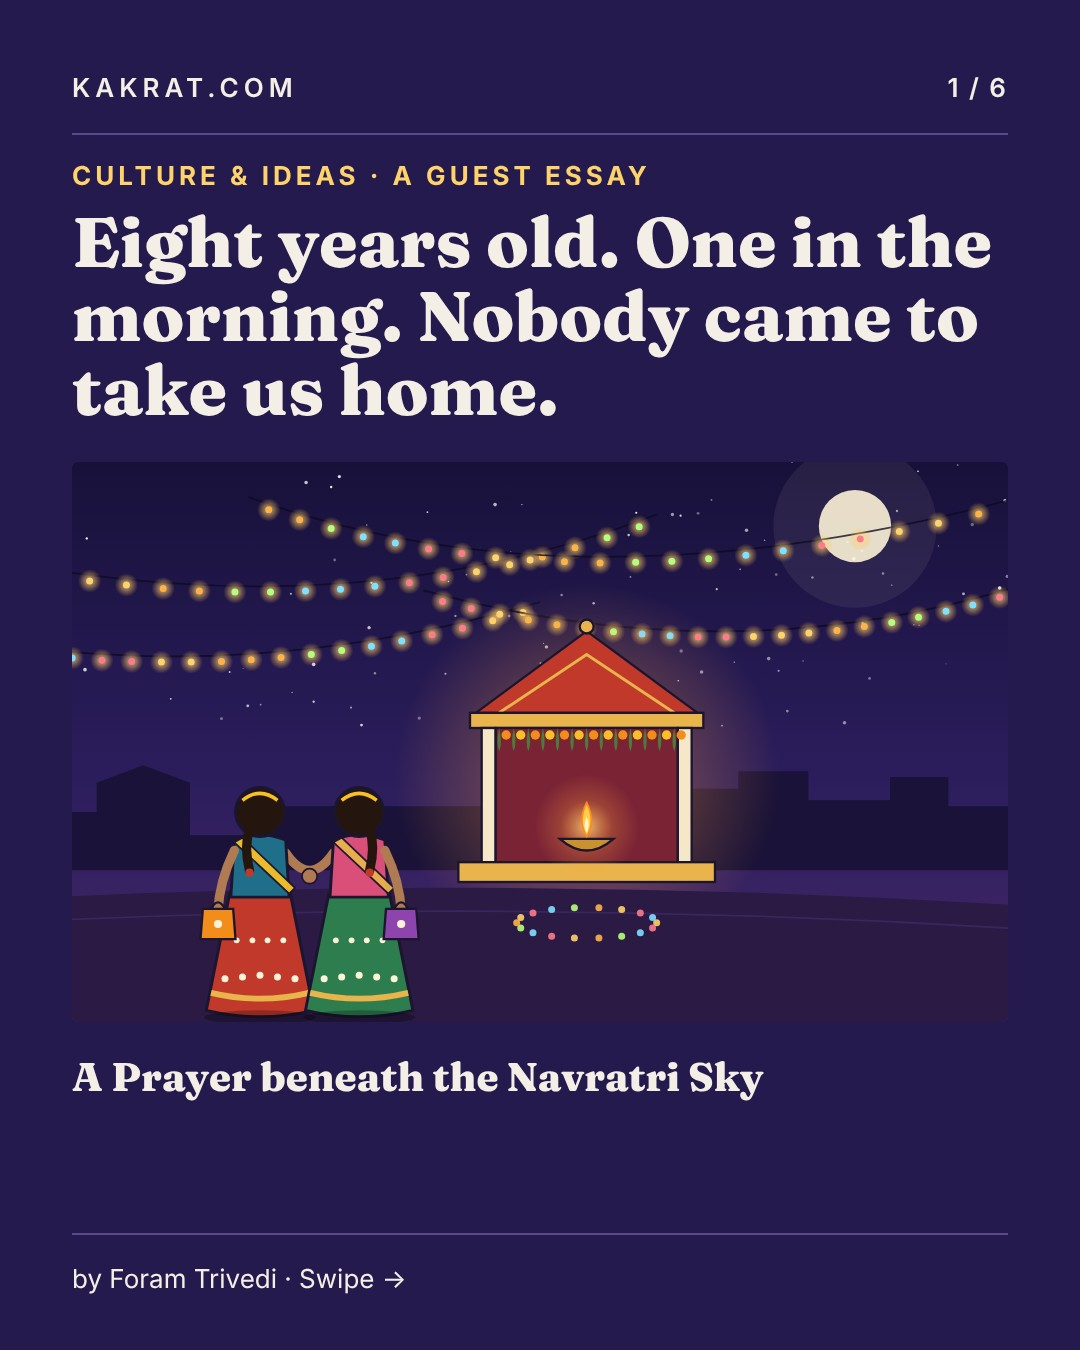
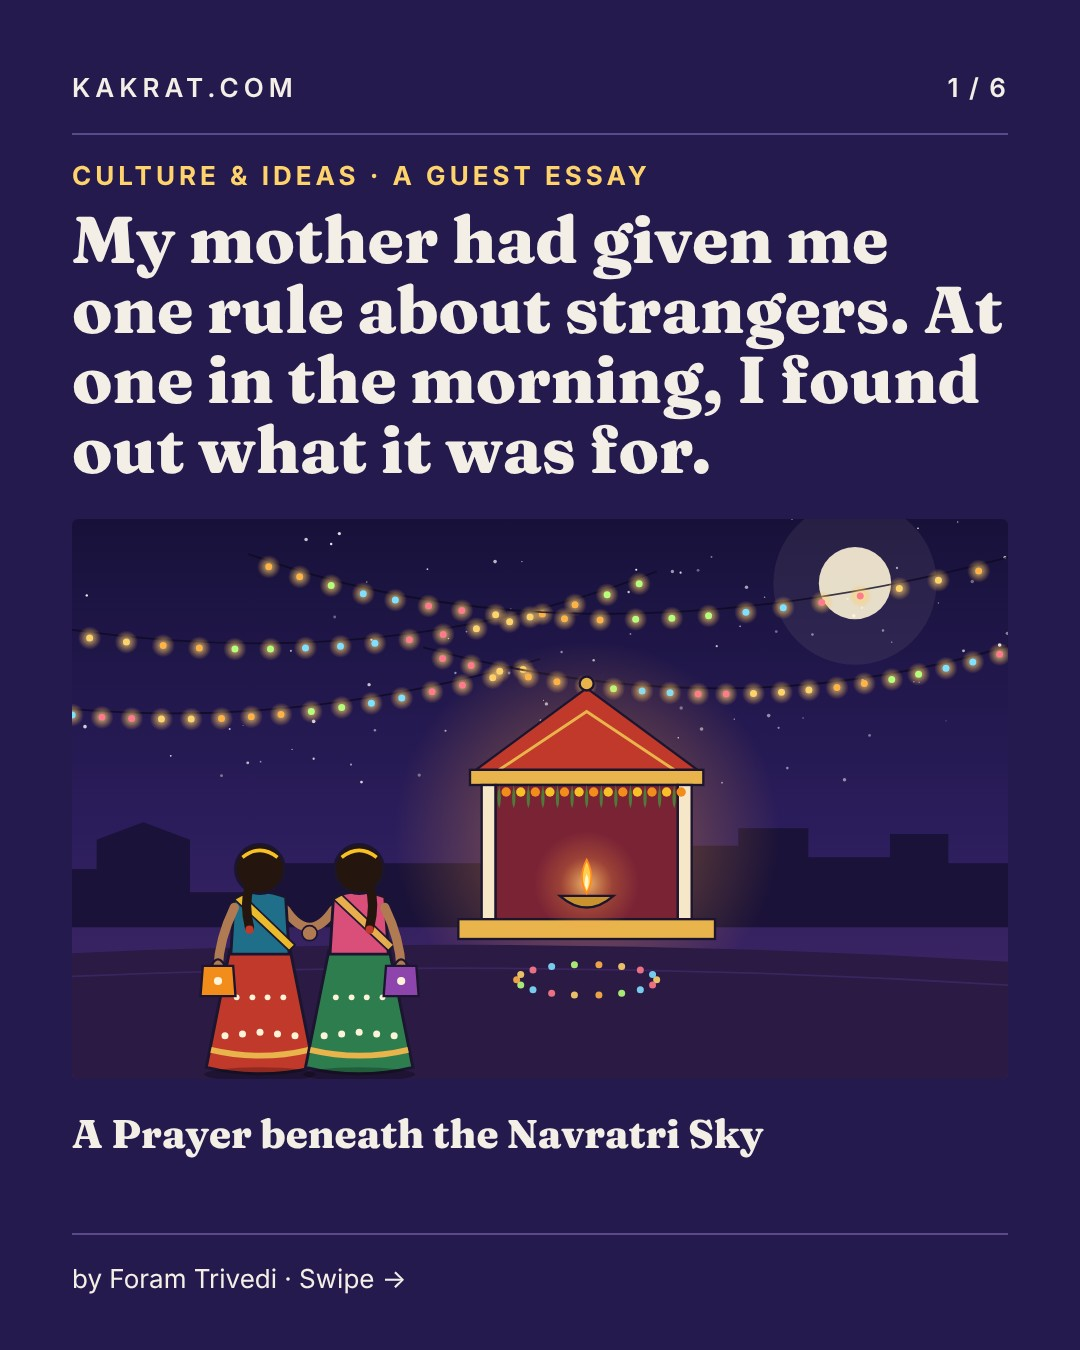
Navratri essay: rewritten text, new standfirst, three illustrations, author headshot
Also shows author photos in the author box and author page when set.

Claude-Session: https://claude.ai/code/session_01M3G9KBUCBKG647iTqF4DtL

Changed region(s): [[0.0611, 0.1556, 0.9472, 0.8711], [0.0611, 0.4044, 0.1222, 0.4356]]

diff --git a/src/components/article/AuthorBox.tsx b/src/components/article/AuthorBox.tsx
@@ -20,11 +20,24 @@ export function AuthorBox({ authors }: { authors: Author[] }) {
         return (
           <div key={a.id} className="rounded-sm border border-line p-6">
             <p className="text-xs uppercase tracking-wider text-ink-muted">About the author</p>
-            <p className="mt-2 font-display text-xl text-ink">
-              <Link href={`/authors/${a.id}`} className="hover:text-accent">
-                {a.name}
-              </Link>
-            </p>
+            <div className="mt-3 flex items-center gap-4">
+              {a.avatar && (
+                // eslint-disable-next-line @next/next/no-img-element -- static export; small pre-sized headshot
+                <img
+                  src={a.avatar}
+                  alt={`Photo of ${a.name}`}
+                  width={64}
+                  height={64}
+                  loading="lazy"
+                  className="h-16 w-16 shrink-0 rounded-full object-cover"
+                />
+              )}
+              <p className="font-display text-xl text-ink">
+                <Link href={`/authors/${a.id}`} className="hover:text-accent">
+                  {a.name}
+                </Link>
+              </p>
+            </div>
             <p className="mt-2 text-sm leading-relaxed text-ink-muted">{a.bio}</p>
             <ul className="mt-3 flex flex-wrap gap-x-4 gap-y-1 text-sm">
               <li>

diff --git a/src/app/authors/[author]/page.tsx b/src/app/authors/[author]/page.tsx
@@ -47,6 +47,16 @@ export default async function AuthorPage({
           { name: author.name, url: `${SITE_URL}/authors/${author.id}` },
         ])}
       />
+      {author.avatar && (
+        // eslint-disable-next-line @next/next/no-img-element -- static export; small pre-sized headshot
+        <img
+          src={author.avatar}
+          alt={`Photo of ${author.name}`}
+          width={96}
+          height={96}
+          className="mb-5 h-24 w-24 rounded-full object-cover"
+        />
+      )}
       <h1 className="font-display text-4xl text-ink">{author.name}</h1>
       {author.title && <p className="mt-1 text-ink-muted">{author.title}</p>}
       <p className="mt-4 max-w-xl text-ink-muted">{author.bio}</p>

diff --git a/src/types/content.ts b/src/types/content.ts
@@ -52,7 +52,8 @@ export const authorSchema = z.object({
   name: z.string(),
   title: z.string().optional(), // e.g. "Founder, Kakrat" / "Contributing Writer"
   bio: z.string(),
-  avatar: z.string().optional(),
+  /** Square headshot under public/, e.g. "/images/authors/<id>.jpg" (320×320). */
+  avatar: z.string().regex(/^\/images\/authors\/[a-z0-9-]+\.(jpg|png|webp)$/).optional(),
   /** Canonical profile links for Person JSON-LD `sameAs`. */
   sameAs: z.array(z.url()).default([]),
   website: z.url().optional(),

diff --git a/src/lib/seo/json-ld.ts b/src/lib/seo/json-ld.ts
@@ -43,6 +43,7 @@ export function personJsonLd(author: Author) {
     description: author.bio,
     url: `${SITE_URL}/authors/${author.id}`,
     ...(author.title ? { jobTitle: author.title } : {}),
+    ...(author.avatar ? { image: `${SITE_URL}${author.avatar}` } : {}),
     ...(author.sameAs.length || author.website
       ? { sameAs: [...(author.website ? [author.website] : []), ...author.sameAs] }
       : {}),

diff --git a/docs/social/2026-12-navratri.md b/docs/social/2026-12-navratri.md
@@ -7,7 +7,7 @@ author: Foram Trivedi (tag her: LinkedIn https://www.linkedin.com/in/foram-trive
 ## Instagram
 time: 19:30
 caption:
-Eight years old. One in the morning. Nobody came to take us home.
+My mother had given me one rule about strangers. At one o'clock in the morning, on the first night of Navratri, I found out what it was for.
 
 In her first essay for Kakrat, Foram Trivedi remembers the first night of Navratri in Jamnagar, when two little girls were left behind after the garba, said no to a stranger, and held hands under the festival lights until help came.
 
@@ -20,9 +20,9 @@ Read it at kakrat.com (link in bio)
 ## X
 time: 20:00
 text:
-Eight years old. One in the morning. Nobody came to take us home.
+My mother had given me one rule about strangers. At one o'clock in the morning, on the first night of Navratri, I found out what it was for.
 
-For Kakrat, Foram Trivedi remembers a Navratri night in Jamnagar, and what it taught a neighbourhood about counting its children. https://kakrat.com/articles/a-prayer-beneath-the-navratri-sky
+Foram Trivedi on a Navratri night in Jamnagar, and what it taught a neighbourhood about counting its children. https://kakrat.com/articles/a-prayer-beneath-the-navratri-sky
 
 ## LinkedIn
 time: 09:30 next day
@@ -36,13 +36,13 @@ It's a gentle story with a clear lesson for anyone who runs events, schools or t
 https://kakrat.com/articles/a-prayer-beneath-the-navratri-sky
 
 ## Alt text
-01: Title slide on deep blue: "Eight years old. One in the morning. Nobody came to take us home." Below, an illustration of two little girls seen from behind in bright chaniya cholis, holding hands and gift bags, looking at a glowing mandap with a lit diya under strings of festival lights. Title: A Prayer beneath the Navratri Sky, by Foram Trivedi.
-02: "The air smelled of raatrani and rain. The drums of the aarti carried all the way home." Two little girls danced the sheri garba all night. Quote: "At eight, staying up for garba felt like an adventure."
-03: "One by one, the other girls left." The organisers went home, telling the caretaker to send the last two off. Quote: "We were eight years old, it was one in the morning, and we were alone with a man we didn't know."
-04: On deep blue: "Never go anywhere with a stranger." The caretaker offered to take them home; they said no. "We held hands, looked up at the Goddess in the mandap, and prayed without a sound."
-05: "Two neighbours spotted them and led them to the street corner." Their mothers were still dancing and had forgotten to pick them up. For us: relief. For them: a lifelong regret.
+01: Title slide on deep blue: "My mother had given me one rule about strangers. At one in the morning, I found out what it was for." Below, an illustration of two little girls seen from behind in bright chaniya cholis, holding hands and gift bags, looking at a glowing mandap with a lit diya under strings of festival lights. Title: A Prayer beneath the Navratri Sky, by Foram Trivedi.
+02: Illustration of girls in chaniya cholis dancing garba in a circle around a glowing clay garbo under festival lights. Text: "The raatrani was in bloom, and the sky had agreed to be different for nine nights." Quote: "At eight, staying up for garba is not a late night. It is an expedition."
+03: Illustration of two little girls from behind on a bench in an empty room, gift bags beside them, watching a closed door; a wall clock shows one o'clock. Quote: "We were eight years old, and we were alone with a man we did not know." Two people each believed the other had checked. Neither had.
+04: On deep blue, a close view of the two girls holding hands before the lit mandap. Text: "We looked up, past the strings of bulbs, to the Goddess in the mandap. We just prayed."
+05: Illustration of two women in sarees walking the two girls by the hand towards women dancing garba at the street corner. Text: "Two neighbours stopped, and the world became ordinary again." For us: relief. For our mothers: a lifelong regret.
 06: On deep blue: "When everyone is watching the children, it is easy for no one to be watching them." Read Foram Trivedi's essay at kakrat.com. A row of birds on a wire, one of them yellow.
 
 ## Share card
 file: 01.jpg
-line: Eight years old. One in the morning. Nobody came to take us home.
+line: My mother had given me one rule about strangers. At one o'clock in the morning, on the first night of Navratri, I found out what it was for.

diff --git a/content/images-src/2026/a-prayer-beneath-the-navratri-sky/SOURCE.md b/content/images-src/2026/a-prayer-beneath-the-navratri-sky/SOURCE.md
@@ -5,3 +5,11 @@
 - Image: Flat illustration of two little girls seen from behind, in chaniya cholis, holding hands and small gift bags, looking up at a night sky strung with festival lights towards a glowing mandap with a lit diya
 - Source: Drawn for this article by Kakrat (Claude, under the editor's direction) as SVG and exported at 1920×1080. No real people are depicted.
 - Added: 2026-11-26
+
+## Inline illustrations (`garba.jpg`, `waiting.jpg`, `found.jpg`)
+
+- `garba.jpg`: girls dancing the sheri garba in a circle around a lit garbo under festival lights
+- `waiting.jpg`: two girls from behind on a bench in an empty room, watching the door; the clock shows one o'clock
+- `found.jpg`: two neighbours in sarees walking the girls towards the mothers dancing at the street corner
+- Source: Drawn for this article by Kakrat (Claude, under the editor's direction) as SVG and exported at 1600×1000. Figures are faceless; no real people are depicted.
+- Added: 2026-11-26
